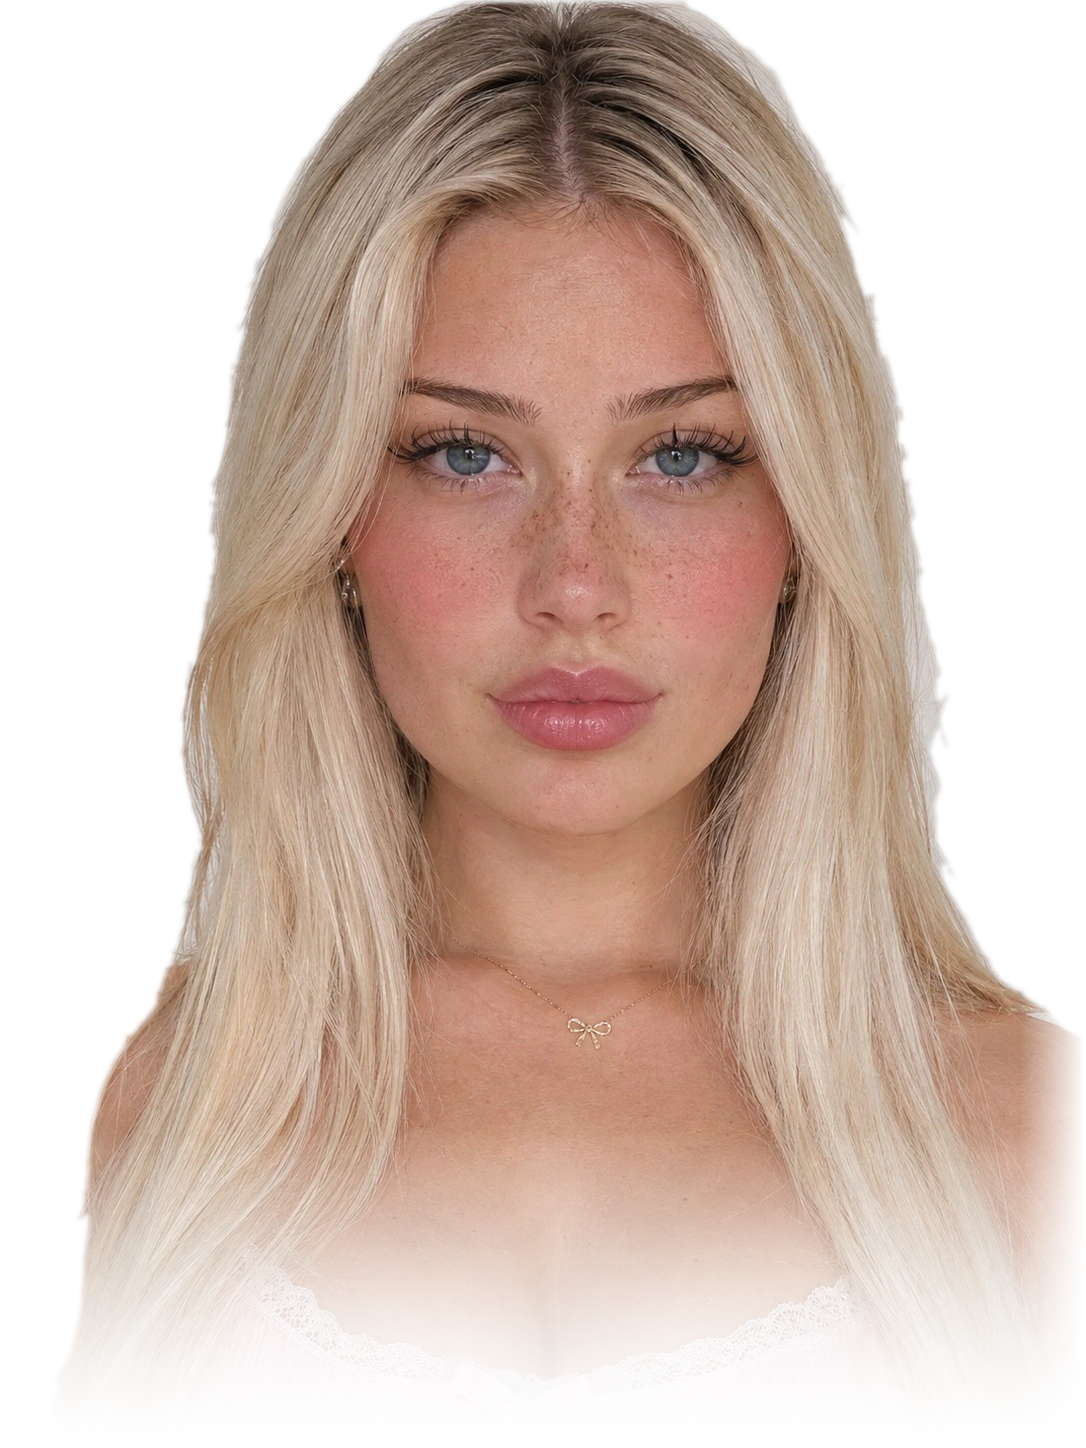
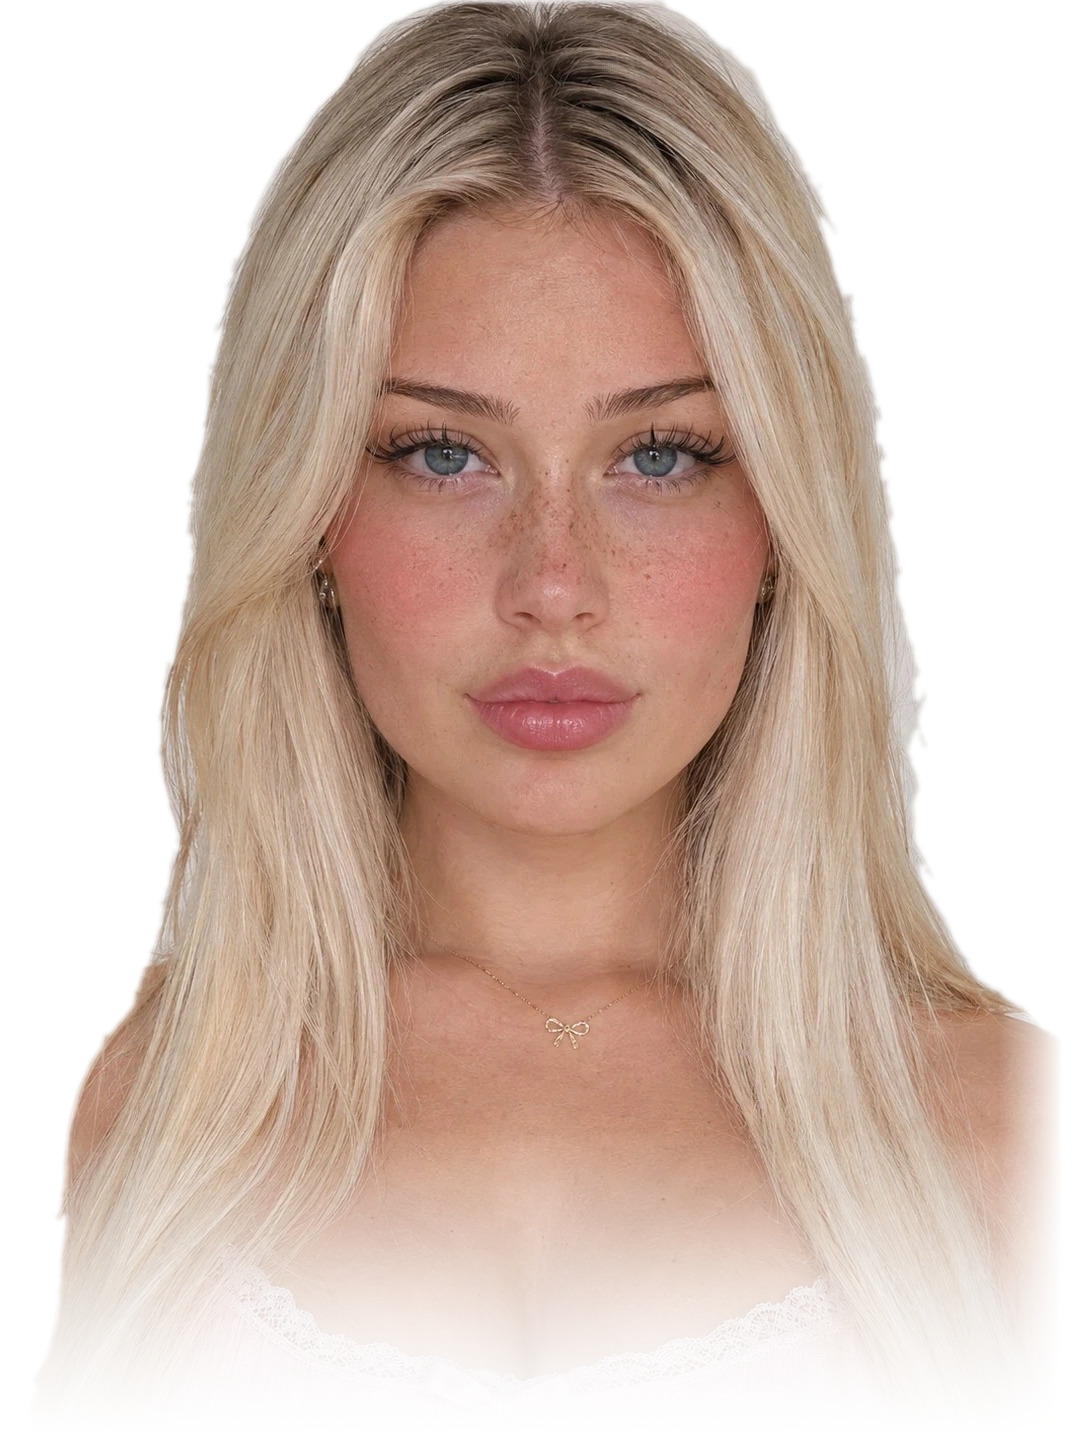
Put Kaya back as the 3D hero, recentred
Claude-Session: https://claude.ai/code/session_01LopeR6w6xxcLsmToY8WoWL

Changed region(s): [[0.0304, 0.0, 1.0, 0.9323], [0.4862, 0.6837, 0.5773, 0.7148]]

diff --git a/index.html b/index.html
@@ -223,15 +223,15 @@
     <h1 class="title">UN<span>REAL</span> AGEN<span>CY</span></h1>
 
     <div class="stage" id="stage">
-      <div class="backword" id="backword" aria-hidden="true">JADE</div>
+      <div class="backword" id="backword" aria-hidden="true">KAYA</div>
       <div class="ring" id="ring" aria-hidden="true"></div>
       <div class="floor"></div>
       <div class="head" id="head">
-        <canvas id="gl" aria-label="Jade, an Unreal Agency AI model, in 3D following your cursor"></canvas>
-        <img id="face" src="jade_cut.webp" alt="Jade, an Unreal Agency AI model" hidden>
+        <canvas id="gl" aria-label="Kaya, an Unreal Agency AI model, in 3D following your cursor"></canvas>
+        <img id="face" src="kaya_cut.webp" alt="Kaya, an Unreal Agency AI model" hidden>
         <div class="shine" id="shine"></div>
       </div>
-      <div class="chip a"><span class="dot"></span>Jade · online now</div>
+      <div class="chip a"><span class="dot"></span>Kaya · online now</div>
       <div class="chip b"><b>+$412</b> PPV today</div>
       <div class="chip c">AI chatter replied in <b>8s</b></div>
     </div>
@@ -422,8 +422,8 @@
     var camera = new THREE.PerspectiveCamera(28, 1086/1448, 0.1, 100);
     camera.position.set(0, 0, 3.05);
     var loader = new THREE.TextureLoader();
-    var colorTex = loader.load('jade_cut.webp');
-    var depthTex = loader.load('jade_depth.png');
+    var colorTex = loader.load('kaya_cut.webp');
+    var depthTex = loader.load('kaya_depth.png');
     [colorTex, depthTex].forEach(function(t){ t.minFilter = THREE.LinearFilter; t.magFilter = THREE.LinearFilter; t.generateMipmaps = false; });
     if (colorTex.encoding !== undefined) colorTex.encoding = THREE.sRGBEncoding;
     if (renderer.outputEncoding !== undefined) renderer.outputEncoding = THREE.sRGBEncoding;
